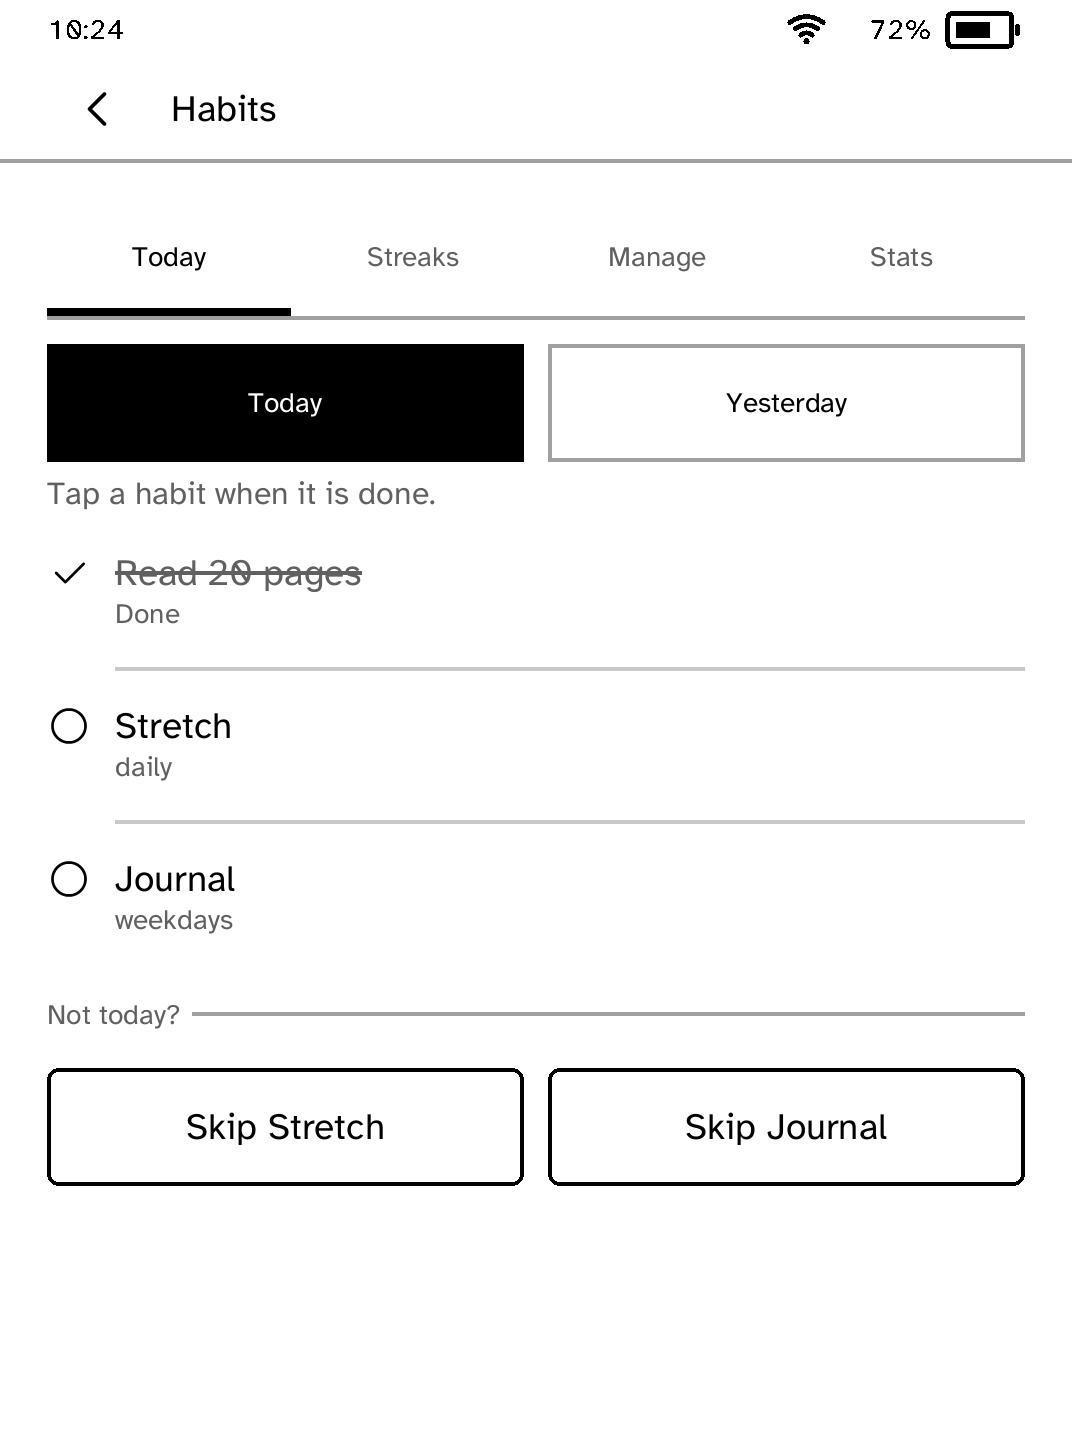
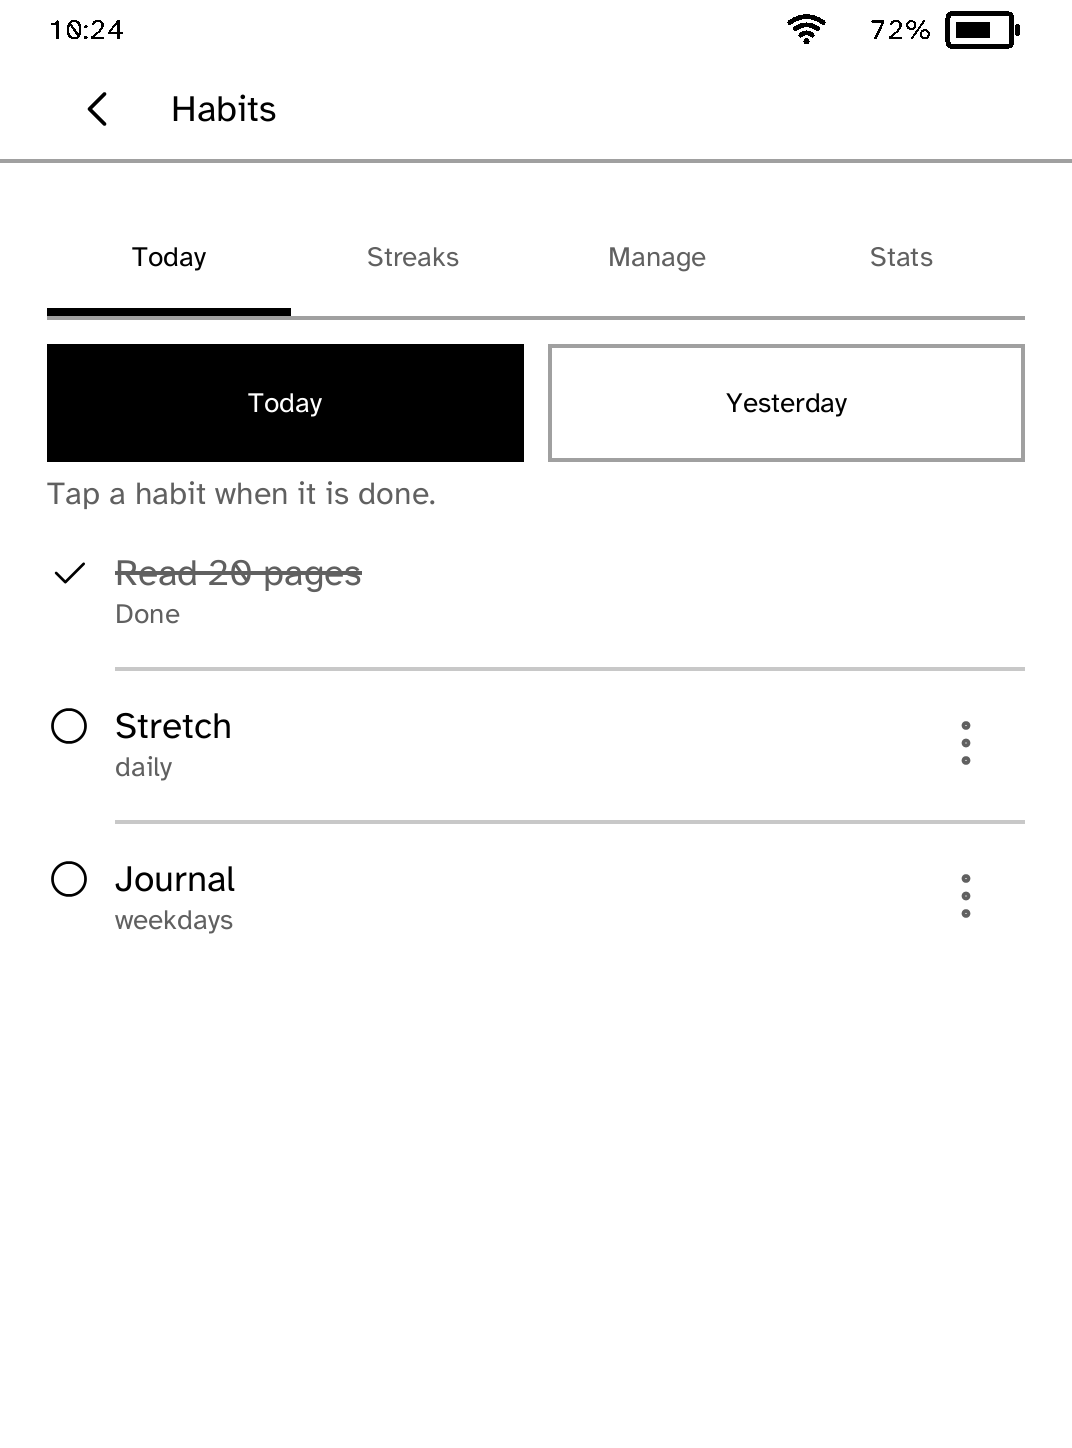
Skip a habit from its own menu and count Stats from a habit's first day
Today ended in a row of Skip buttons with room for "Skip read
twenty..." and no more. Each open habit now has a menu on its row with
Skip today in it. Stats said "1 completions", and counted every habit
as due on all seven days, so three habits added this morning were a
week of twenty-one due days. A habit's days now count from the first
day it was marked, done or skipped.

diff --git a/docs/apps/habits/index.html b/docs/apps/habits/index.html
@@ -21,7 +21,7 @@
 <meta name="twitter:description" content="An offline habit tracker for daily and weekday habits, with streaks, weekly statistics and a backup you can copy to your computer. Install it on a supported Kobo e-reader with Cobalt.">
 <meta name="twitter:image" content="https://bandarlabs.github.io/Cobalt/media/site/apps/habits.png">
 <meta name="twitter:image:alt" content="Habits today screen on a Kobo Clara BW, with daily and weekday streak tasks.">
-<meta http-equiv="Content-Security-Policy" content="default-src 'none'; script-src 'self' 'sha256-e7pYNnlzbdh+1VEbJ97XdKS2r33O0GxHQijNwUS9nQo='; style-src 'self'; img-src 'self'; connect-src https://cobalt-install-relay.anandabhishek.workers.dev; base-uri 'none'; form-action 'self'">
+<meta http-equiv="Content-Security-Policy" content="default-src 'none'; script-src 'self' 'sha256-NcaPUDf5BvcyGi6Ll1KOl46xQma4Xrp83Ud754RaqAI='; style-src 'self'; img-src 'self'; connect-src https://cobalt-install-relay.anandabhishek.workers.dev; base-uri 'none'; form-action 'self'">
 <script type="application/ld+json">{
   "@context": "https://schema.org",
   "@graph": [
@@ -40,7 +40,7 @@
       "applicationSuite": "Cobalt",
       "applicationCategory": "UtilitiesApplication",
       "operatingSystem": "Cobalt on supported Kobo e-readers",
-      "softwareVersion": "0.1.14",
+      "softwareVersion": "0.1.15",
       "isAccessibleForFree": true,
       "offers": {
         "@type": "Offer",
@@ -99,7 +99,7 @@
       <h1>Habits</h1>
       <p class="summary">An offline habit tracker for daily and weekday habits, with streaks, weekly statistics and a backup you can copy to your computer.</p>
       <dl class="facts">
-        <div><dt>Version</dt><dd>0.1.14</dd></div>
+        <div><dt>Version</dt><dd>0.1.15</dd></div>
         <div><dt>Permissions</dt><dd>No additional permissions</dd></div>
         <div><dt>Requires</dt><dd>Cobalt 0.3.32</dd></div>
       </dl>
@@ -119,8 +119,8 @@
     </div>
   </section>
   <section class="whats-new">
-    <h2>New in 0.1.14</h2>
-    <p>Headings are a step smaller, small print such as hints and dates a step larger, and there is more room under the top bar.</p>
+    <h2>New in 0.1.15</h2>
+    <p>Skip a habit from its own menu, and Stats counts a habit's days only from when it was first marked.</p>
   </section>
   <section class="panel get-cobalt" id="setup-panel">
     <div class="get-cobalt-copy">

diff --git a/apps/habits/src/main.rs b/apps/habits/src/main.rs
@@ -26,7 +26,6 @@ const SCHEDULES: [(&str, &str, Schedule); 3] = [
 ];
 const SHOW_TODAY: &str = "show-today";
 const SHOW_YESTERDAY: &str = "show-yesterday";
-const ACTION_NAME_CHARS: usize = 12;
 #[derive(Clone, Copy, Debug, Eq, PartialEq)]
 enum EntryMode {
     Add,
@@ -91,6 +90,8 @@ struct Habits {
     loading: bool,
     save_in_flight: bool,
     queued_save: Option<Vec<u8>>,
+    /// The habit whose menu is open on Today, offering to skip it.
+    skip_menu: Option<usize>,
 }
 impl Default for Habits {
     fn default() -> Self {
@@ -115,6 +116,7 @@ impl Default for Habits {
             loading: false,
             save_in_flight: false,
             queued_save: None,
+            skip_menu: None,
         }
     }
 }
@@ -171,11 +173,23 @@ impl Habits {
         self.manage_page = Self::clamp_page(self.manage_page, self.items.len());
         self.streaks_page = Self::clamp_page(self.streaks_page, streaks);
     }
+    /// Opens and closes a habit's menu on Today. Whatever is tapped while
+    /// one is open closes it, and a tap off the menu arrives as Back and
+    /// does nothing else. Returns whether the tap was spent here.
+    fn handle_skip_menu(&mut self, cx: &mut Context, a: ActionId) -> bool {
+        if self.skip_menu.take().is_some() && a == ActionId::BACK {
+            self.show(cx);
+            return true;
+        }
+        if let Some(i) = (0..self.items.len()).find(|i| a == action_id(&format!("menu-{i}"))) {
+            self.skip_menu = Some(i);
+            self.show(cx);
+            return true;
+        }
+        false
+    }
     fn display_name(name: &str) -> String {
         Self::shortened_name(name, MAX_HABIT_NAME_CHARS)
-    }
-    fn action_name(name: &str) -> String {
-        Self::shortened_name(name, ACTION_NAME_CHARS)
     }
     fn shortened_name(name: &str, maximum: usize) -> String {
         let mut display: String = name.chars().take(maximum).collect();
@@ -316,12 +330,15 @@ impl Habits {
                     let (start, end, page, pages) = Self::page_bounds(self.today_page, due.len());
                     let visible = &due[start..end];
                     // Nothing on the list said that tapping a habit is what
-                    // marks it done, and the skip buttons under it floated
-                    // without a word to say what they were for.
-                    let open = visible
+                    // marks it done. Skipping is the rarer answer, so it is
+                    // in each open habit's menu rather than a row of
+                    // buttons under the list, where three of them had room
+                    // for "Skip read twenty..." and no more.
+                    let open: Vec<usize> = visible
                         .iter()
                         .filter(|(_, h)| !h.done.contains(&day) && !h.skipped.contains(&day))
-                        .count();
+                        .map(|(i, _)| *i)
+                        .collect();
                     s = s
                         .secondary(if self.days_back == 1 {
                             "Tap a habit you did yesterday."
@@ -344,25 +361,24 @@ impl Habits {
                                 done,
                             )
                         }));
-                    if open > 0 {
-                        s = s.section(if self.days_back == 1 {
-                            "Not yesterday?"
-                        } else {
-                            "Not today?"
-                        });
+                    for i in &open {
+                        s = s.row_menu(format!("done-{i}"), format!("menu-{i}"));
                     }
-                    s = s.buttons(
-                        visible
-                            .iter()
-                            .filter(|(_, h)| !h.done.contains(&day) && !h.skipped.contains(&day))
-                            .map(|(i, h)| {
-                                (
-                                    format!("skip-{i}"),
-                                    format!("Skip {}", Self::action_name(&h.name)),
-                                )
-                            })
-                            .take(3),
-                    );
+                    if let Some(i) = self.skip_menu.filter(|i| open.contains(i)) {
+                        s = s.row_overflow(
+                            format!("menu-{i}"),
+                            true,
+                            [(
+                                format!("skip-{i}"),
+                                if self.days_back == 1 {
+                                    "Skip yesterday"
+                                } else {
+                                    "Skip today"
+                                },
+                                Glyph::Next,
+                            )],
+                        );
+                    }
                     if pages > 1 {
                         s = Self::paged(s, page, pages, "due-prev", "due-next");
                     }
@@ -465,10 +481,20 @@ impl Habits {
                 let week = if due == 0 {
                     "This week: nothing was due.".to_owned()
                 } else {
-                    format!("This week: {done} of {due} due days completed, {skipped} skipped.")
+                    format!(
+                        "This week: {done} of {due} due {} completed, {skipped} skipped.",
+                        if due == 1 { "day" } else { "days" }
+                    )
                 };
                 s = s
-                    .heading(format!("{completed} completions"))
+                    .heading(format!(
+                        "{completed} {}",
+                        if completed == 1 {
+                            "completion"
+                        } else {
+                            "completions"
+                        }
+                    ))
                     .text(week)
                     .button("settings", "Settings");
             }
@@ -806,6 +832,9 @@ impl KoboApp for Habits {
     }
     fn on_action(&mut self, cx: &mut Context, a: ActionId) {
         self.normalize_pages();
+        if self.handle_skip_menu(cx, a) {
+            return;
+        }
         if a == ActionId::BACK {
             self.go_back();
             self.show(cx);
@@ -1099,7 +1128,20 @@ mod tests {
         archived.archived = true;
         archived.done = vec![today];
         let (due, done, skipped) = model::week_summary(&[habit, archived], today);
-        assert_eq!((due, done, skipped), (7, 2, 1));
+        assert_eq!((due, done, skipped), (3, 2, 1));
+    }
+
+    #[test]
+    fn habits_added_today_count_only_today_as_due() {
+        let today = 20_000;
+        let mut read = Habit::new("Read".into());
+        read.done = vec![today];
+        let walk = Habit::new("Walk".into());
+        let stretch = Habit::new("Stretch".into());
+        assert_eq!(
+            model::week_summary(&[read, walk, stretch], today),
+            (3, 1, 0)
+        );
     }
 
     #[test]
@@ -1122,9 +1164,11 @@ mod tests {
                 _ => false,
             })
         };
+        assert!(says(&screen, "1 completion"));
+        assert!(!says(&screen, "1 completions"));
         assert!(says(
             &screen,
-            "This week: 1 of 7 due days completed, 0 skipped."
+            "This week: 1 of 1 due day completed, 0 skipped."
         ));
         let settings = Habits {
             loaded: true,
@@ -1297,7 +1341,7 @@ mod tests {
     }
 
     #[test]
-    fn every_due_habit_has_a_skip_control_on_a_clean_page() {
+    fn every_due_habit_can_be_skipped_from_its_own_menu_on_a_clean_page() {
         use kobo_sdk::Node;
         use kobo_ui::{Chrome, CLARA_BW_METRICS};
 
@@ -1308,14 +1352,14 @@ mod tests {
             loaded: true,
             ..Habits::default()
         };
-        for (page, expected_rows, expected_skip, pager) in [
+        for (page, expected_rows, expected_menus, pager) in [
             (
                 0,
                 ["done-0", "done-1", "done-2"].as_slice(),
-                ["skip-0", "skip-1", "skip-2"].as_slice(),
+                ["menu-0", "menu-1", "menu-2"].as_slice(),
                 "due-next",
             ),
-            (1, ["done-3"].as_slice(), ["skip-3"].as_slice(), "due-prev"),
+            (1, ["done-3"].as_slice(), ["menu-3"].as_slice(), "due-prev"),
         ] {
             app.today_page = page;
             let screen = app.screen();
@@ -1334,17 +1378,31 @@ mod tests {
                 );
             }
             let layout = screen.layout_with(&CLARA_BW_METRICS, &Chrome::default());
-            for action in expected_skip.iter().chain([pager].iter()) {
+            for action in expected_menus.iter().chain([pager].iter()) {
                 assert!(
                     layout.rect_of_action(action_id(action)).is_some(),
                     "{action} is reachable"
                 );
             }
+            assert!(!screen.nodes.iter().any(|node| matches!(
+                node,
+                Node::Button { label, .. } if label.starts_with("Skip")
+            )));
             assert!(screen
                 .diagnostics(&CLARA_BW_METRICS, &Chrome::default())
                 .issues
                 .is_empty());
         }
+        // A habit's menu offers the skip, and choosing it closes the menu.
+        app.today_page = 0;
+        let mut runner = AppRunner::new(app);
+        runner.action(action_id("menu-1"));
+        let menu = runner.app().screen();
+        let layout = menu.layout_with(&CLARA_BW_METRICS, &Chrome::default());
+        assert!(layout.rect_of_action(action_id("skip-1")).is_some());
+        runner.action(action_id("skip-1"));
+        assert!(runner.app().skip_menu.is_none());
+        assert_eq!(runner.app().items[1].skipped, vec![Habits::day()]);
     }
 
     #[test]
@@ -1539,7 +1597,7 @@ mod tests {
         assert!(title.is_some_and(|title| title.ends_with('…')));
         assert!(today
             .layout_with(&kobo_ui::CLARA_BW_METRICS, &kobo_ui::Chrome::default())
-            .rect_of_action(action_id("skip-0"))
+            .rect_of_action(action_id("menu-0"))
             .is_some());
         let diagnostics =
             today.diagnostics(&kobo_ui::CLARA_BW_METRICS, &kobo_ui::Chrome::default());

diff --git a/apps/habits/src/model.rs b/apps/habits/src/model.rs
@@ -110,12 +110,27 @@ impl Habit {
 
 /// The last seven days across the active habits: due days, how many of
 /// them were completed, and how many were skipped. Today counts.
+///
+/// A habit's days are counted from the first day it was marked, done or
+/// skipped, or from today if it has not been marked yet. The record keeps
+/// no day a habit was added, and counting the whole week for each one made
+/// three habits added this morning a week of twenty-one due days, twenty of
+/// them missed before the habits existed.
 pub fn week_summary(habits: &[Habit], today: u32) -> (u32, u32, u32) {
     let mut due = 0;
     let mut done = 0;
     let mut skipped = 0;
     for habit in habits.iter().filter(|habit| !habit.archived) {
-        for day in today.saturating_sub(6)..=today {
+        let first = habit
+            .done
+            .first()
+            .into_iter()
+            .chain(habit.skipped.first())
+            .min()
+            .copied()
+            .unwrap_or(today)
+            .min(today);
+        for day in today.saturating_sub(6).max(first)..=today {
             if habit.due(day) {
                 due += 1;
                 if has_day(&habit.done, day) {

diff --git a/apps/habits/tests/app.rs b/apps/habits/tests/app.rs
@@ -169,11 +169,12 @@ fn a_week_sums_only_due_days() {
     habit.schedule = Schedule::Weekdays;
     // 20004 is a Tuesday by the model's Monday-zero shift, so the seven days
     // ending there hold five weekdays.
+    // Marked at the start of the week too, so all seven days are counted.
     let today = 20_004;
-    habit.done = vec![today];
+    habit.done = vec![today - 6, today];
     habit.skipped = vec![today - 1];
     let (due, done, skipped) = week_summary(&[habit], today);
-    assert_eq!((due, done, skipped), (5, 1, 1));
+    assert_eq!((due, done, skipped), (5, 2, 1));
 }
 #[test]
 fn an_undone_skip_leaves_the_day_plainly_not_done() {
